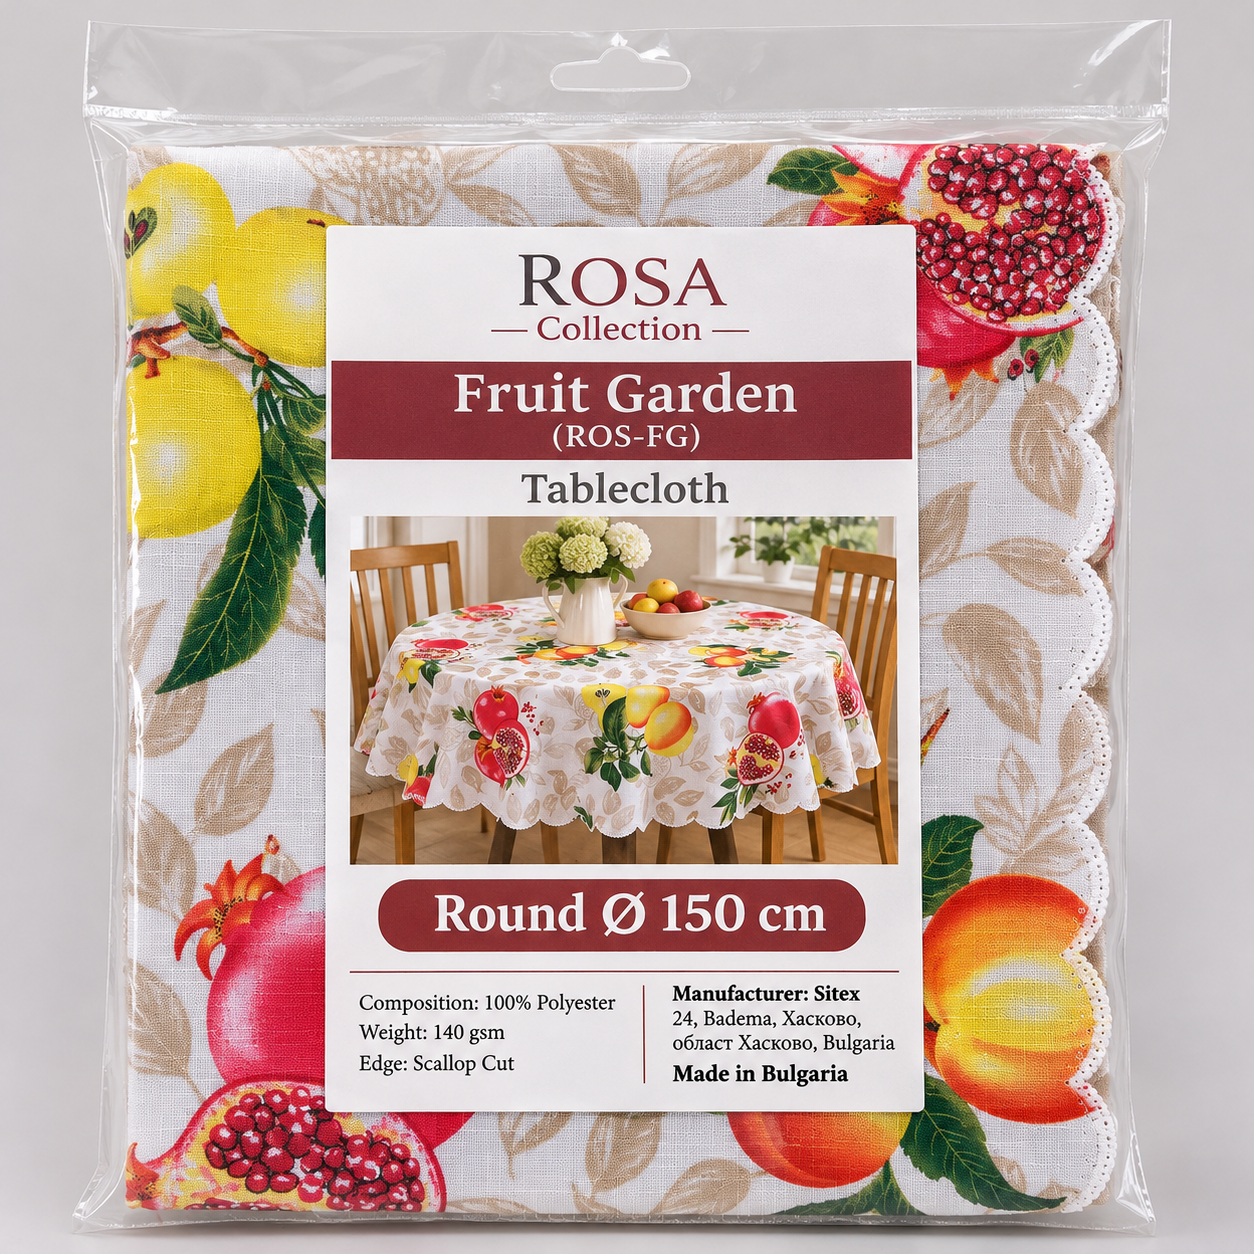
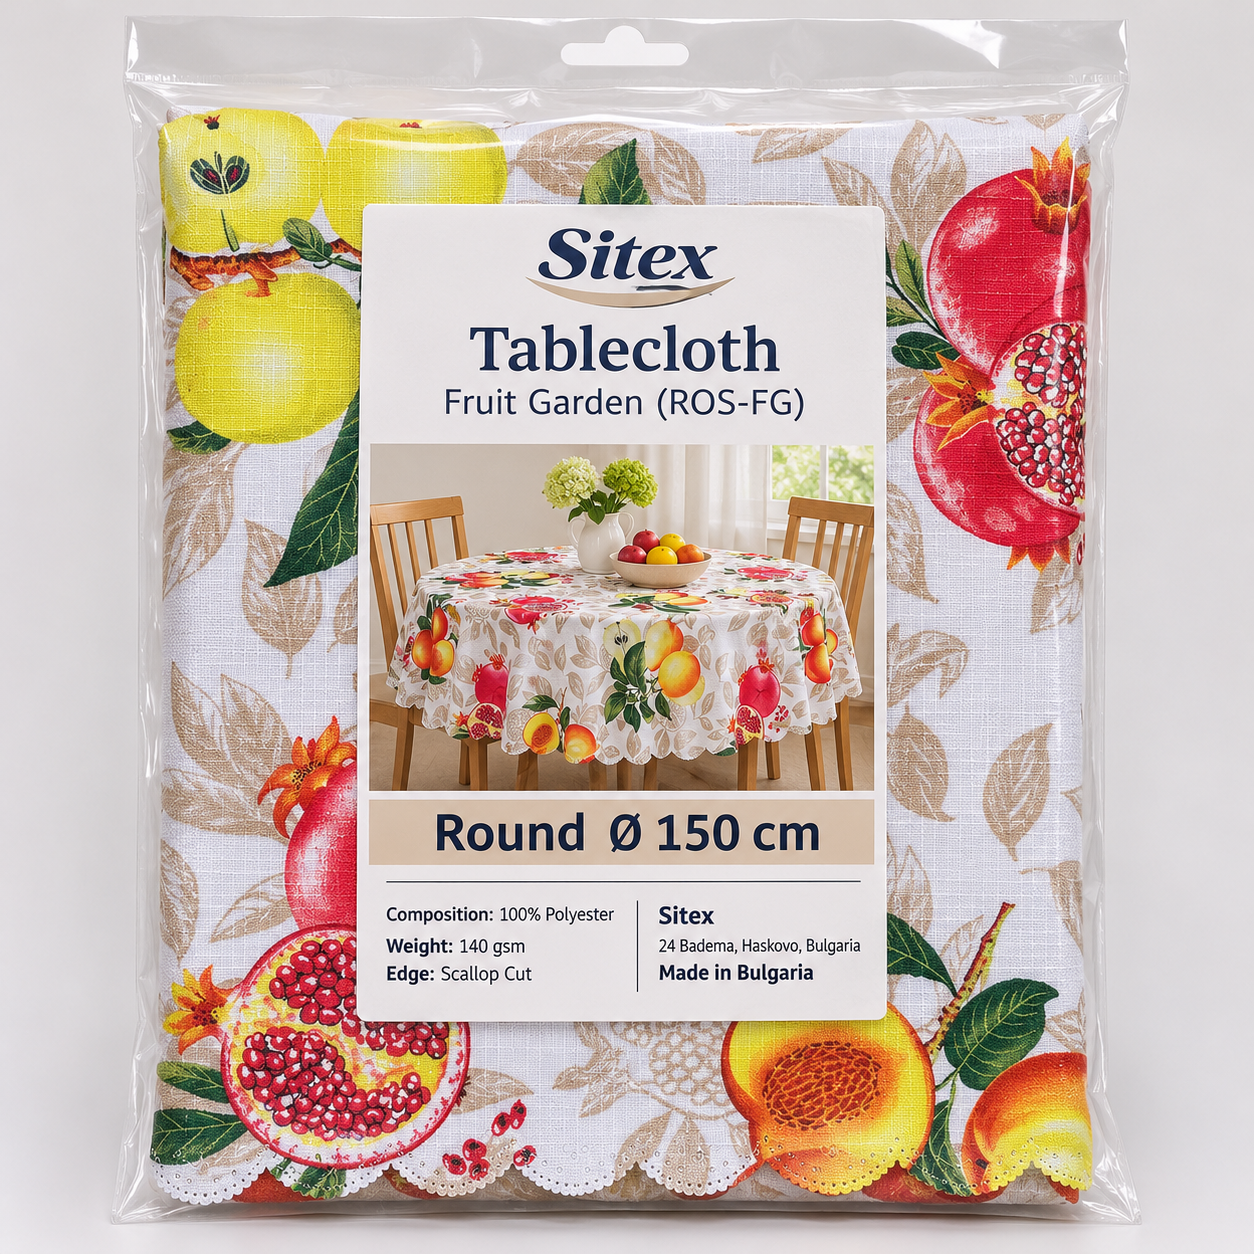
Use Latin manufacturer address for Fruit Garden compliance

diff --git a/PRODUCT_IMAGE_RECIPE.md b/PRODUCT_IMAGE_RECIPE.md
@@ -1,5 +1,5 @@
 # Product image recipes
-<!-- recipe-version: 18 -->
+<!-- recipe-version: 19 -->
 
 This is the editable master shot list. Sitex PIM reads each `shot-json` block directly. Recipes are captured when a run starts. Generation code lives in `sitex-pim`; this repository contains source photographs, accepted photographs and recipes. The existing `video/` project is outside this workflow.
 
@@ -534,7 +534,7 @@ Keep all drafts, downloads, attempt history, measurements and run metadata outsi
 
 ## Compliance images
 
-For Sitex products made in Bulgaria, every Temu compliance shot must show the manufacturer name `Sitex`, the full address `24, Badema, Хасково, област Хасково, Bulgaria`, and the origin statement `Made in Bulgaria` on the label. Match the Temu submission exactly, including the Cyrillic spelling and commas in the address. Check the actual label against the submission before upload. If the manufacturer, address or origin differs, or any text is missing or illegible, flag the mismatch and withhold the photo.
+For Sitex products made in Bulgaria, every Temu compliance shot must show the manufacturer name `Sitex` and the origin statement `Made in Bulgaria`. For Fruit Garden (`ROS-FG`), print `24 Badema, Haskovo, Bulgaria` as the address. For all other Sitex products, use `24, Badema, Хасково, област Хасково, Bulgaria`. Check the actual label against the Temu submission before upload. If the manufacturer, address or origin differs, or any text is missing or illegible, flag the mismatch and withhold the photo.
 
 Use photos of the actual product or retail packaging with the printed label firmly attached. Generated layouts are reference drafts only. If the physical label lacks the matching details, correct the printed label and rephotograph it before submitting.
 
@@ -560,7 +560,7 @@ PIM expands the `compliance__variant` template into one shot for each distinct a
     "Entire clear package and actual fabric visible",
     "Product name, product code and supplied composition",
     "The manufacturer field must read exactly Sitex, the display name in the Temu submission, even if the supplied PIM manufacturer is Sitex OOD",
-    "Print the address verbatim on the label: 24, Badema, Хасково, област Хасково, Bulgaria",
+    "For product code ROS-FG, print the address verbatim as 24 Badema, Haskovo, Bulgaria. Use Latin letters and no comma after 24. For other product codes, print 24, Badema, Хасково, област Хасково, Bulgaria. Print only the address for the current product",
     "Print the origin statement exactly as Made in Bulgaria",
     "Shared product label without a variant-specific size, SKU or EAN",
     "Final PNG file strictly under 3 MB (fewer than 3,000,000 bytes)"
@@ -590,7 +590,7 @@ PIM expands the `compliance__variant` template into one shot for each distinct a
   "requiredContent": [
     "Exact product code and supplied composition",
     "The manufacturer field must read exactly Sitex, the display name in the Temu submission, even if the supplied PIM manufacturer is Sitex OOD",
-    "Print the address verbatim on the label: 24, Badema, Хасково, област Хасково, Bulgaria",
+    "For product code ROS-FG, print the address verbatim as 24 Badema, Haskovo, Bulgaria. Use Latin letters and no comma after 24. For other product codes, print 24, Badema, Хасково, област Хасково, Bulgaria. Print only the address for the current product",
     "Print the origin statement exactly as Made in Bulgaria",
     "Actual fabric, motif and edge visible around the label",
     "All label text sharply readable",
@@ -623,7 +623,7 @@ PIM expands the `compliance__variant` template into one shot for each distinct a
     "Exact target size in centimetres; round sizes use diameter notation",
     "Correct product name and code, actual print and consistent package-label design",
     "The manufacturer field must read exactly Sitex, the display name in the Temu submission, even if the supplied PIM manufacturer is Sitex OOD",
-    "Print the address verbatim on the label: 24, Badema, Хасково, област Хасково, Bulgaria",
+    "For product code ROS-FG, print the address verbatim as 24 Badema, Haskovo, Bulgaria. Use Latin letters and no comma after 24. For other product codes, print 24, Badema, Хасково, област Хасково, Bulgaria. Print only the address for the current product",
     "Print the origin statement exactly as Made in Bulgaria",
     "Only supplied product facts and target variants",
     "Final PNG file strictly under 3 MB (fewer than 3,000,000 bytes)"
